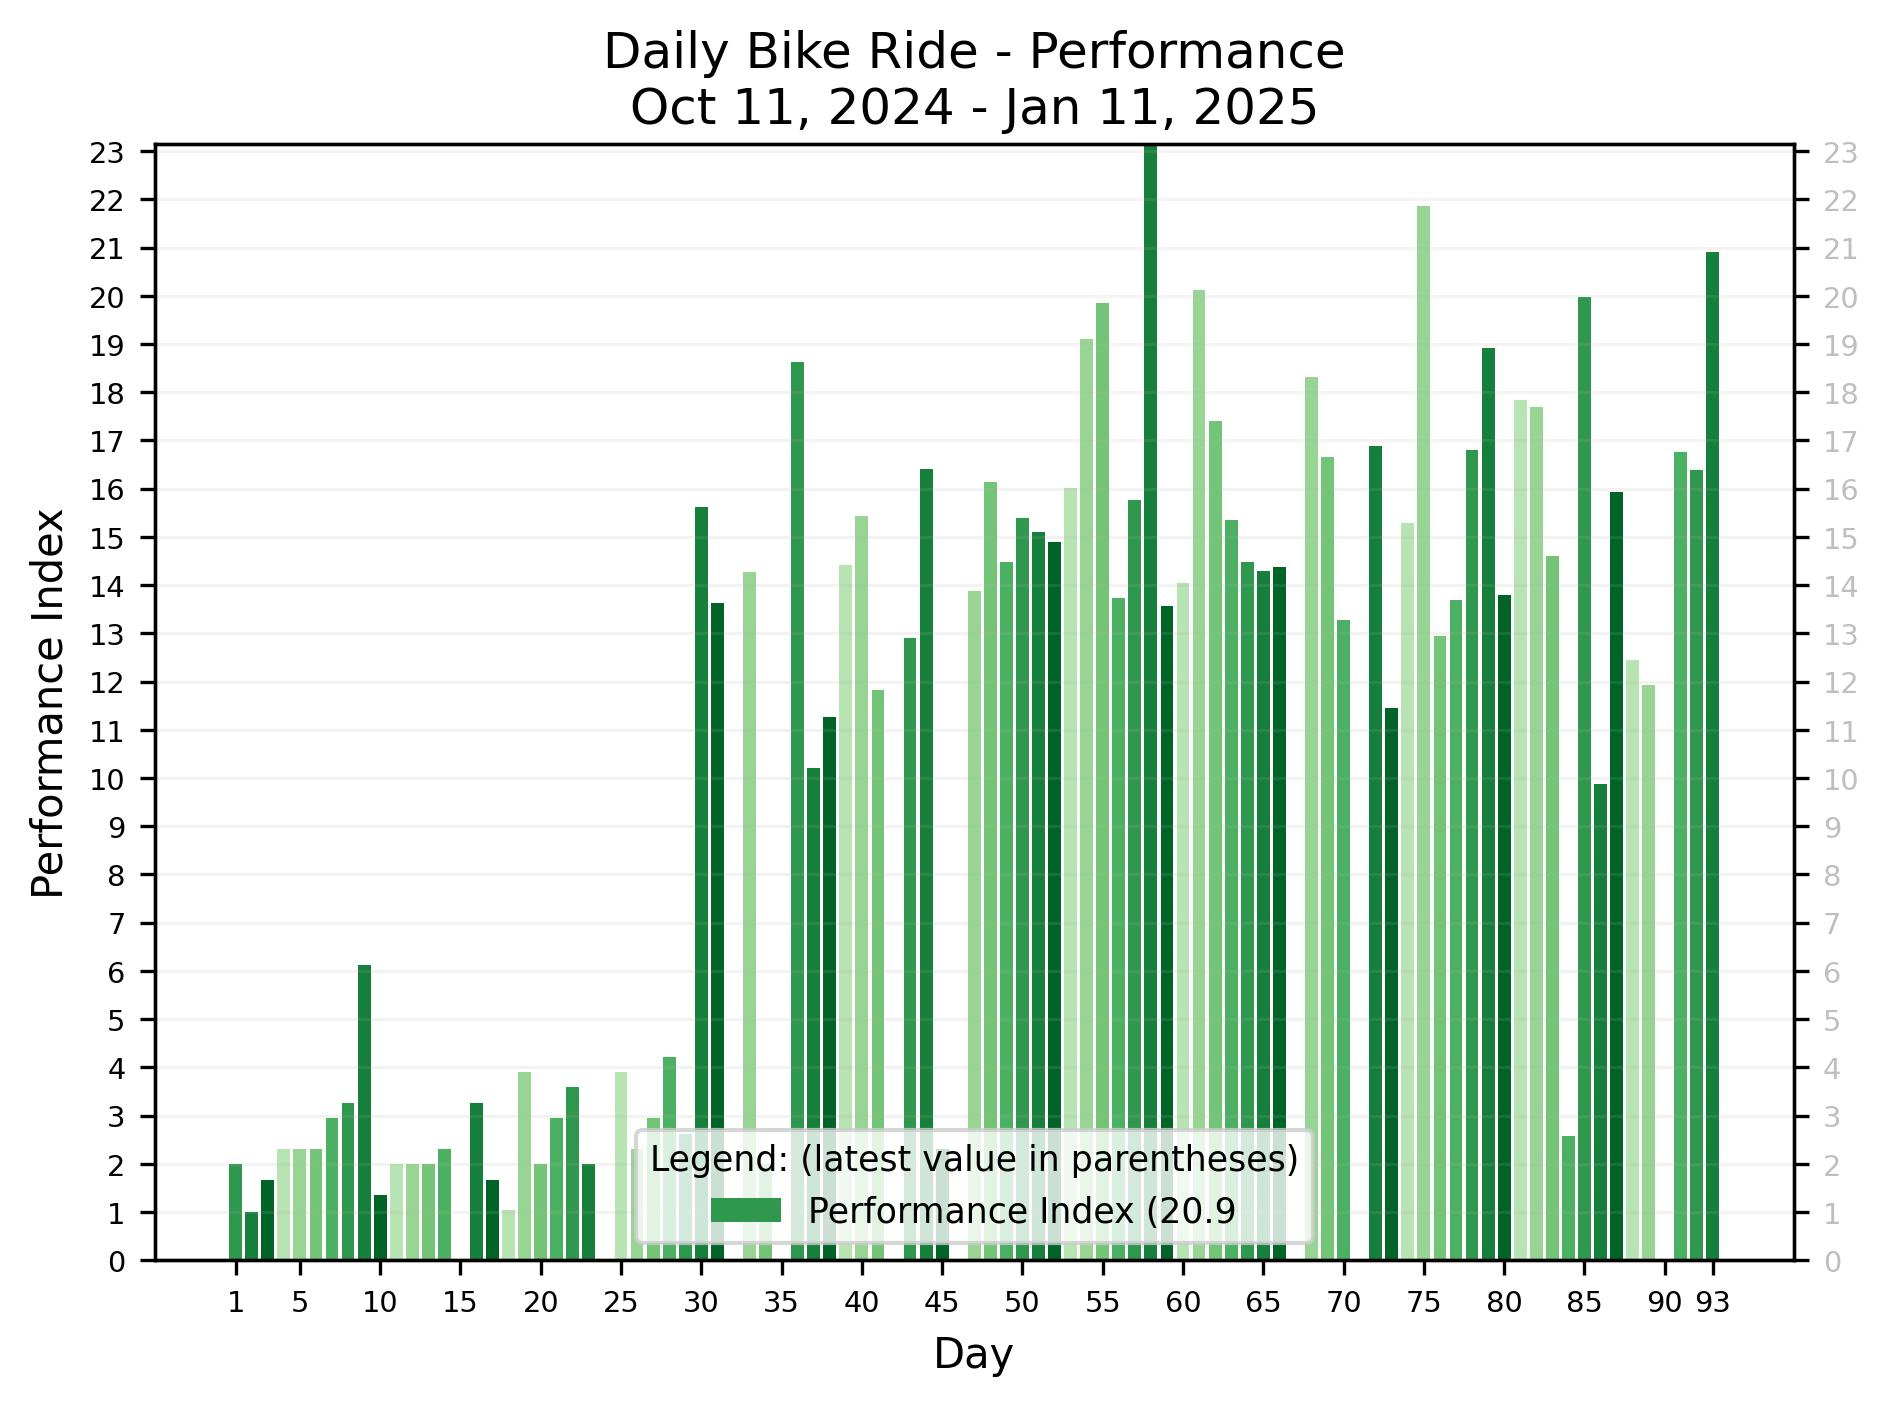
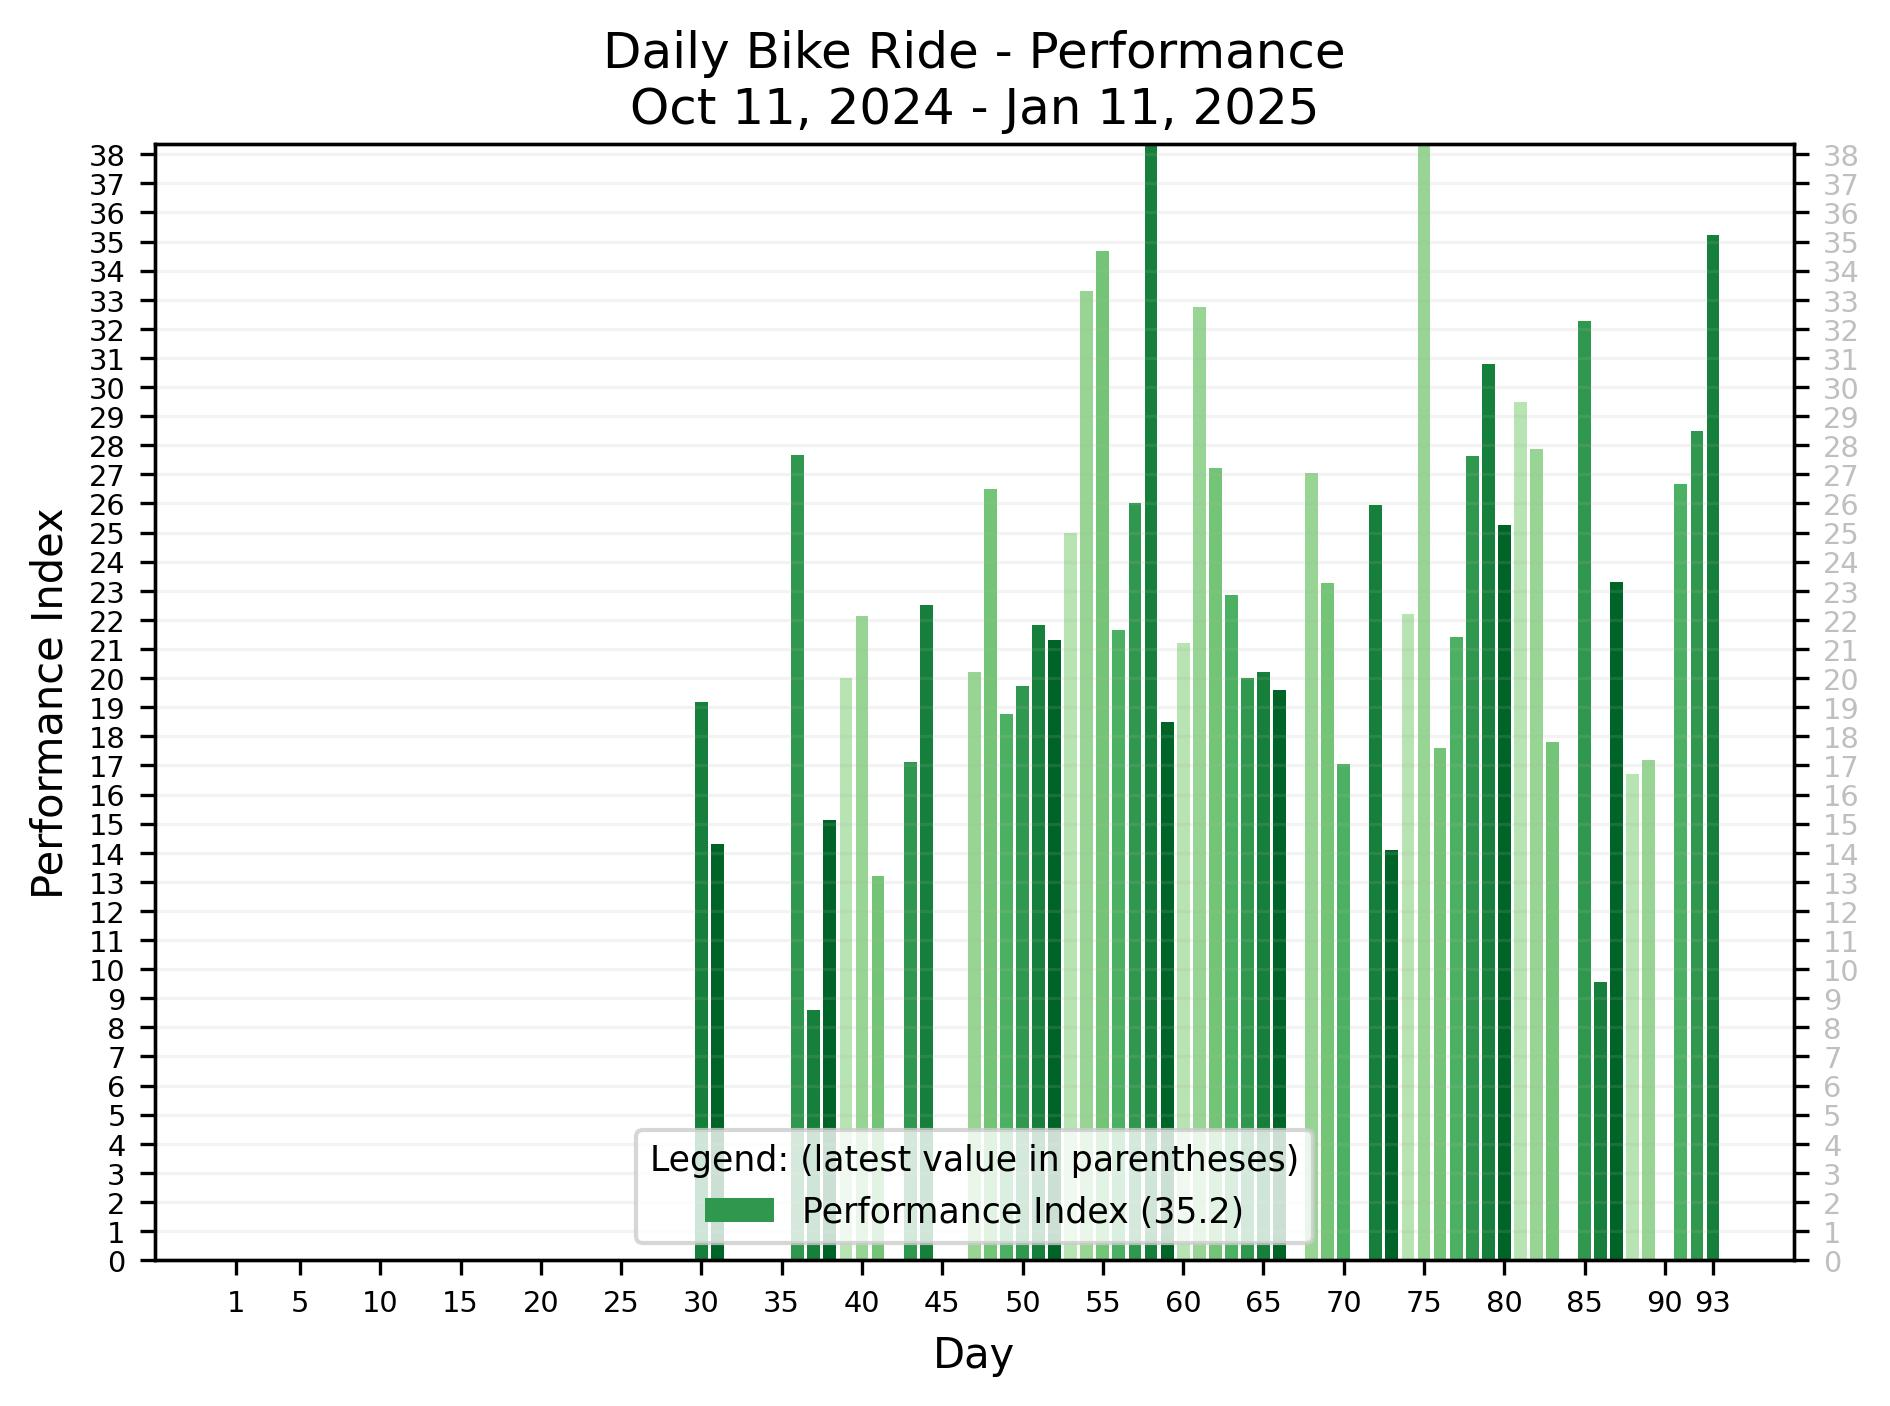
add performance graph

diff --git a/src/biking/graph/performance.py b/src/biking/graph/performance.py
@@ -1,0 +1,69 @@
+from .base import Graph
+from collections import namedtuple
+
+
+Stats = namedtuple("Stats", ["avg", "max", "min", "range"])
+
+
+def stats(values):
+    values = [value for value in values if value > 0]
+
+    average = sum(values) / len(values)
+    maximum = max(values)
+    minimum = min(values)
+    range = maximum - minimum
+
+    return Stats(average, maximum, minimum, range)
+
+
+class PerformanceGraph(Graph):
+    def build(self, ax1):
+        self.title("Performance")
+
+        self.x_axis_days(ax1)
+        self.y_axis(ax1)
+
+        self.legend()
+
+    def y_axis(self, ax1):
+        x = list(range(self.num_days))
+        distance_y = self.stats["data"]["distance_per_day"]
+        speed_y = self.stats["data"]["avg_speed_per_day"]
+        elevation_y = self.stats["data"]["elevation_gain_per_day"]
+
+        distance = stats(distance_y)
+        speed = stats(speed_y)
+        elevation = stats(elevation_y)
+
+        new_low = 0
+        distance_y = [(n - distance.min) / distance.range if n > distance.min else new_low for n in distance_y]
+        speed_y = [(n - speed.min) / speed.range if n > speed.min else new_low for n in speed_y]
+        elevation_y = [(n - elevation.min) / elevation.range if n > elevation.min else new_low for n in elevation_y]
+
+        d_factor = 1.0
+        e_factor = 3.0
+        s_factor = 2.0
+        global_factor = 10.0
+        performance_y = [
+            0 if s == 0 else (d * d_factor + e * e_factor + s * s_factor) * global_factor
+            for d, s, e in zip(distance_y, speed_y, elevation_y)
+        ]
+
+        # def show(label, values):
+        #     print(label, ", ".join([f"{value:.1f}" for value in values]))
+        #
+        # show("DISTANCE", distance_y)
+        # show("SPEED", speed_y)
+        # show("ELEVATION", elevation_y)
+        # show("PERFORMANCE", performance_y)
+
+        ax1.set_ylabel("Performance Index")
+        ax1.grid(axis="y", linestyle="-", alpha=0.15)
+
+        scale = range(0, int(max(performance_y)) + 1, 1)
+        self.add_scale(ax1, 0, max(performance_y), scale),
+
+        colors = self.get_colors()
+        bar = ax1.bar(x, performance_y, color=colors)
+        self.handles.append(bar)
+        self.labels.append(f"Performance Index ({performance_y[-1]:0.1f})")

diff --git a/src/analyze.py b/src/analyze.py
@@ -1,6 +1,6 @@
 #!/usr/bin/env python
 
-from biking.graph import DistanceGraph, ElevationGraph, RideRateGraph, SpeedGraph
+from biking.graph import DistanceGraph, ElevationGraph, PerformanceGraph, RideRateGraph, SpeedGraph
 from biking.input import InputData
 from biking.params import Parameters
 from biking.stats import Statistics
@@ -19,6 +19,7 @@ def generate_graphs(stats):
 
     DistanceGraph(stats, file("distance")).generate()
     ElevationGraph(stats, file("elevation")).generate()
+    PerformanceGraph(stats, file("performance")).generate()
     RideRateGraph(stats, file("ride_rate")).generate()
     SpeedGraph(stats, file("speed")).generate()
 

diff --git a/src/biking/params.py b/src/biking/params.py
@@ -8,6 +8,7 @@ class Parameters:
             distance="Distance.jpg",
             elevation="Elevation.jpg",
             ride_rate="RideRate.jpg",
+            performance="Performance.jpg",
             speed="Speed.jpg",
         )
 

diff --git a/src/biking/graph/__init__.py b/src/biking/graph/__init__.py
@@ -1,4 +1,5 @@
 from .distance import DistanceGraph
 from .elevation import ElevationGraph
+from .performance import PerformanceGraph
 from .ride_rate import RideRateGraph
 from .speed import SpeedGraph

diff --git a/README.md b/README.md
@@ -6,6 +6,7 @@ Generate graphs such as the following from data collected using Strava.
 ![Daily Bike Ride - Ride Rate](output/RideRate.jpg)
 ![Daily Bike Ride - Speed](output/Speed.jpg)
 ![Daily Bike Ride - Elevation Gain](output/Elevation.jpg)
+![Daily Bike Ride - Performance](output/Performance.jpg)
 
 There is also a way to augment the Strava data.  See <a href="#input">Input</a> below.
 
